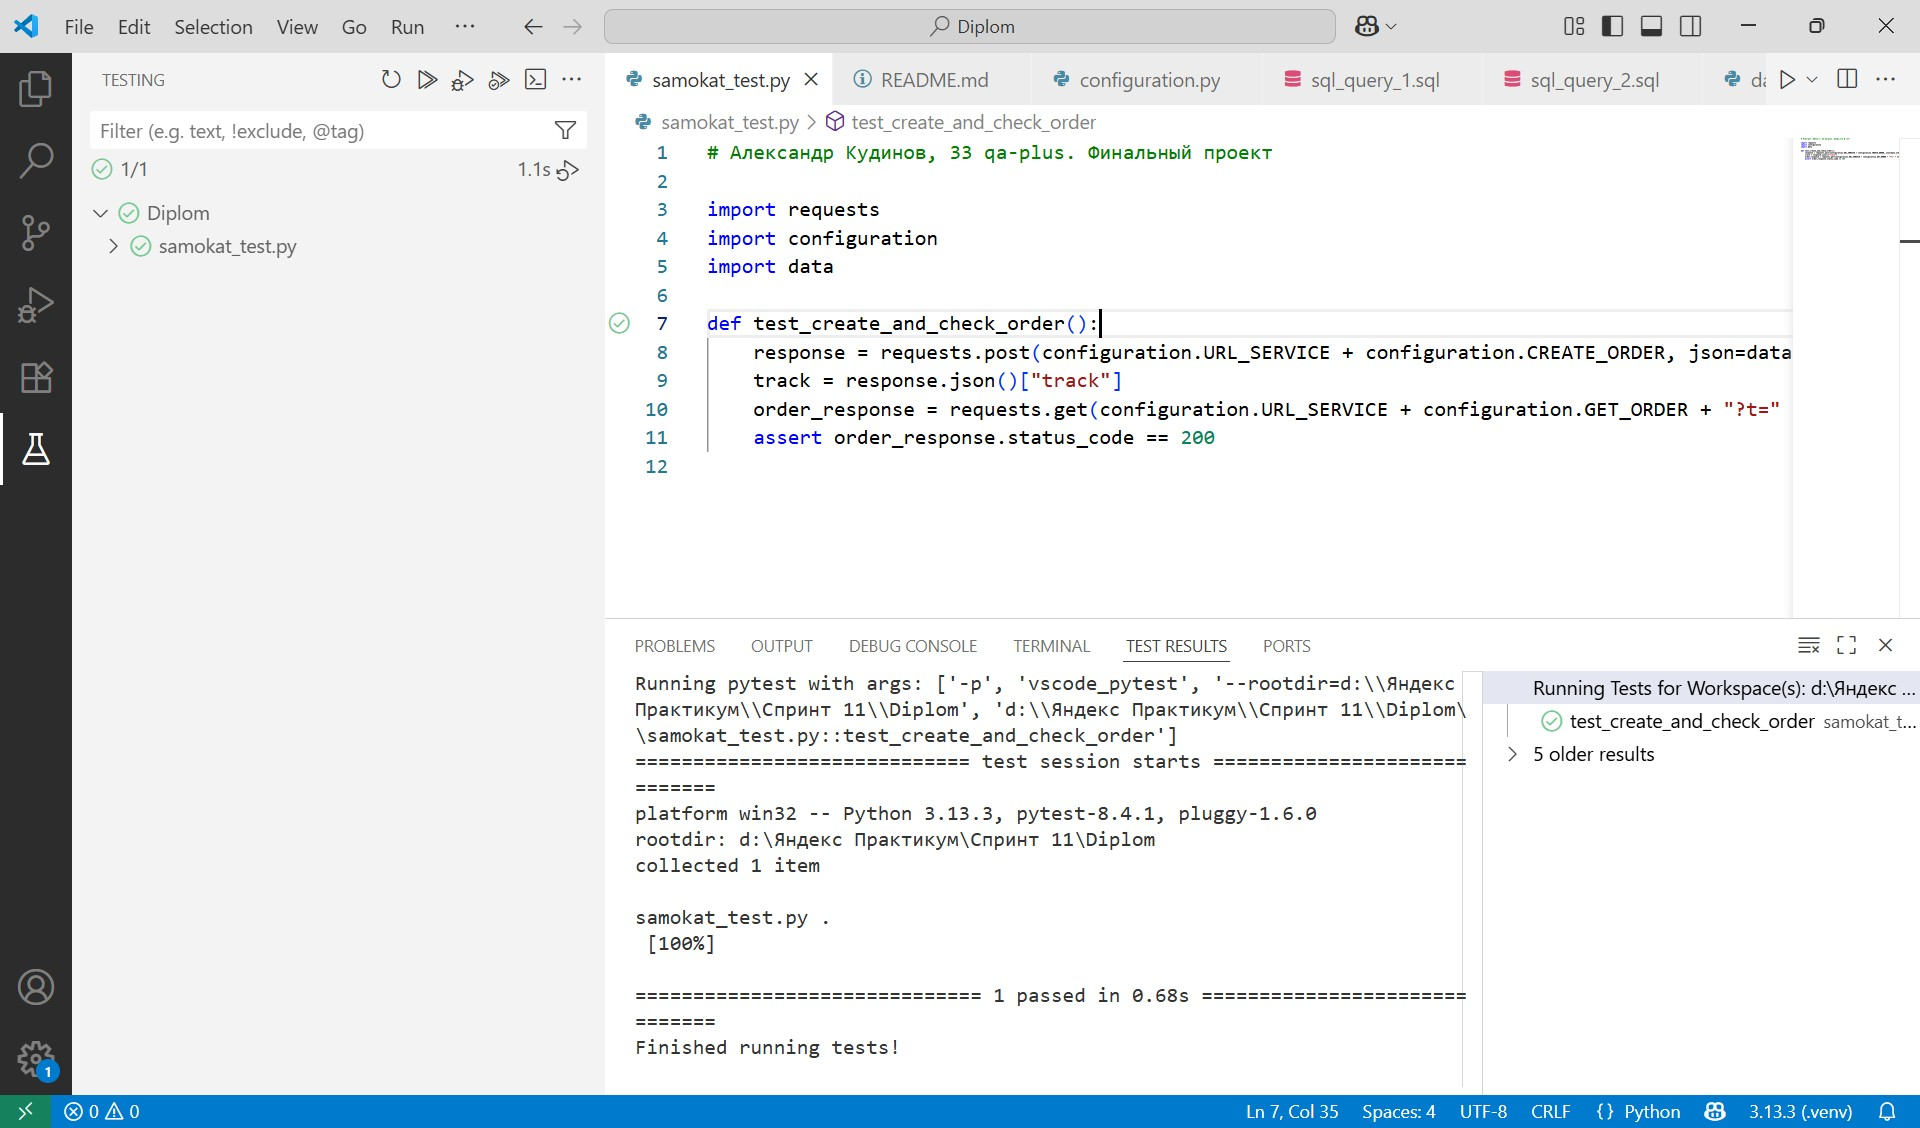
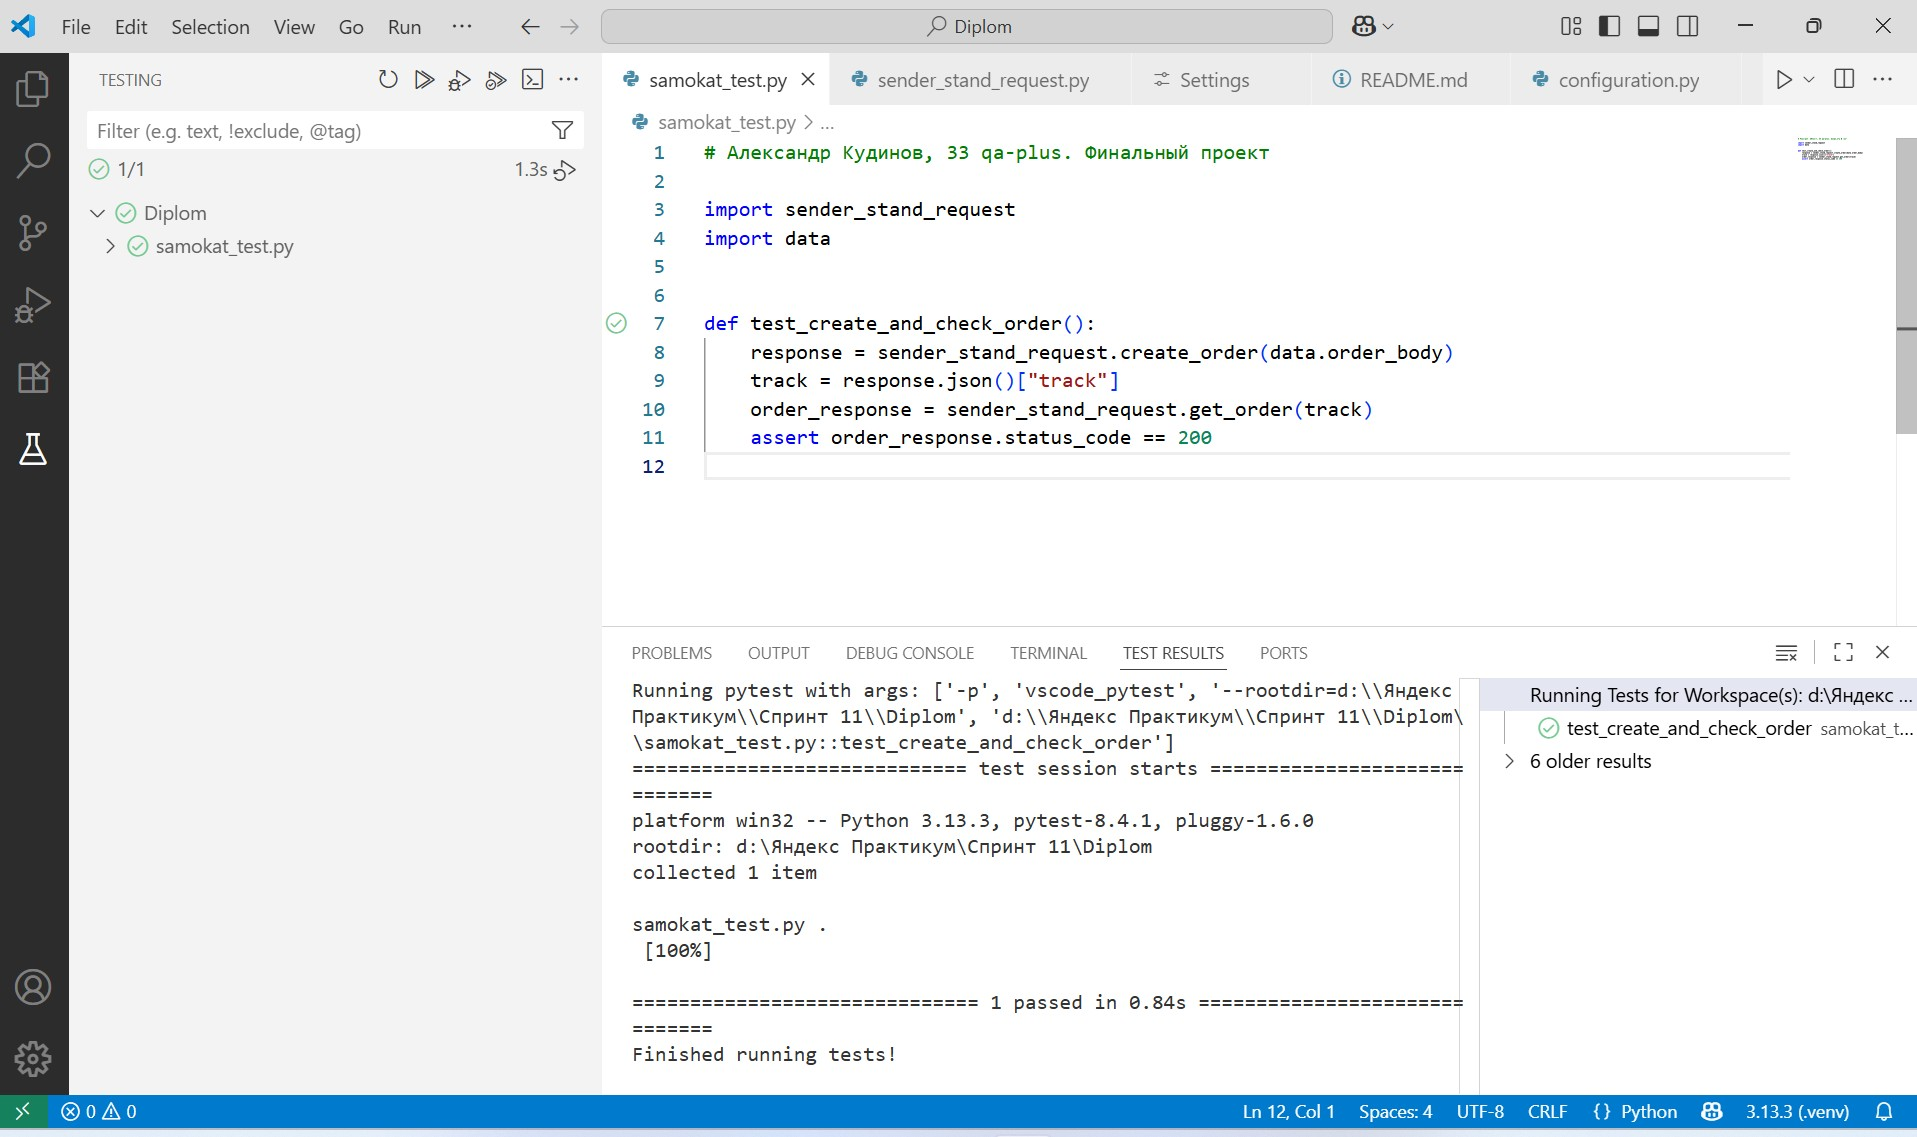
После замечаний

diff --git a/samokat_test.py b/samokat_test.py
@@ -1,9 +1,11 @@
-import requests
-import configuration
+# Александр Кудинов, 33 qa-plus. Финальный проект
+
+import sender_stand_request
 import data
 
+
 def test_create_and_check_order():
-    response = requests.post(configuration.URL_SERVICE + configuration.CREATE_ORDER, json=data.order_body)
+    response = sender_stand_request.create_order(data.order_body)
     track = response.json()["track"]
-    order_response = requests.get(configuration.URL_SERVICE + configuration.GET_ORDER + "?t=" + str(track))
-    assert order_response.status_code == 200    
+    order_response = sender_stand_request.get_order(track)
+    assert order_response.status_code == 200

diff --git a/configuration.py b/configuration.py
@@ -1,6 +1,3 @@
-# CREATE_USER_PATH хранит путь к API-методу для создания нового пользователя.
-# Этот путь будет использоваться для формирования полного URL-адреса в сочетании с базовым URL сервиса,
-# когда необходимо выполнить запрос на создание пользователя.
 CREATE_ORDER = "/api/v1/orders"
 GET_ORDER = "/api/v1/orders/track"
-URL_SERVICE = "https://1b677f36-34a0-4c54-9e57-c60f8c54f671.serverhub.praktikum-services.ru"
+URL_SERVICE = "https://f5af254c-97db-4936-959f-eae9d1fe46ee.serverhub.praktikum-services.ru"

diff --git a/sender_stand_request.py b/sender_stand_request.py
@@ -1,0 +1,16 @@
+import requests
+import configuration
+
+
+def create_order(order_body):
+    return requests.post(
+        configuration.URL_SERVICE + configuration.CREATE_ORDER,
+        json=order_body
+    )
+
+
+def get_order(track_number):
+    return requests.get(
+        configuration.URL_SERVICE +
+        configuration.GET_ORDER + "?t=" + str(track_number)
+    )
